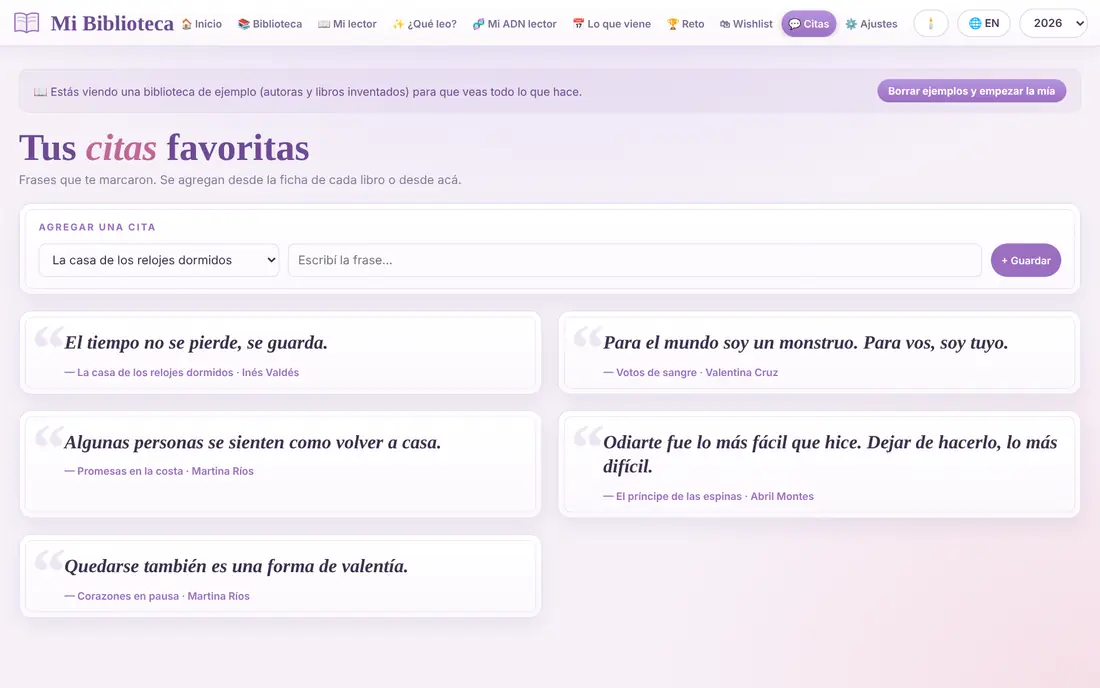
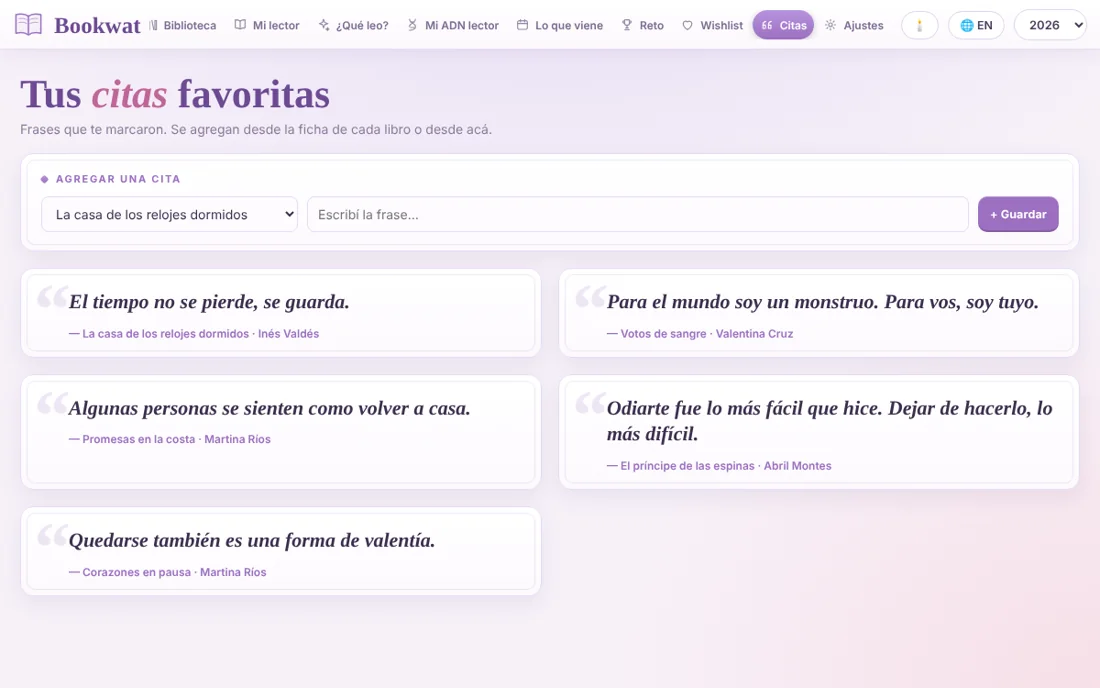
Landing sobria para adultos: portada sin cuento, demo real dentro de la misma pagina, capturas nuevas
Claude-Session: https://claude.ai/code/session_01Ls1qy53izVxpzdbeK1F168

diff --git a/index.html b/index.html
@@ -3,8 +3,8 @@
 <head>
 <meta charset="utf-8">
 <meta name="viewport" content="width=device-width,initial-scale=1,viewport-fit=cover">
-<title>Bookwat · Reading Journal — tu mundo lector encantado</title>
-<meta name="description" content="Bookwat: tu biblioteca encantada, tu lector de EPUB y PDF, tu ADN lector y tu próxima lectura ideal. Probala 1 mes gratis.">
+<title>Bookwat · Reading Journal — tu diario de lectura</title>
+<meta name="description" content="Bookwat: organizá tu biblioteca, leé tus EPUB y PDF con subrayados, conocé tu perfil de lectora y descubrí qué leer después. Probala 1 mes gratis.">
 <meta name="theme-color" content="#1d1030">
 <link rel="preconnect" href="https://fonts.googleapis.com"><link rel="preconnect" href="https://fonts.gstatic.com" crossorigin>
 <link href="https://fonts.googleapis.com/css2?family=Cormorant+Garamond:ital,wght@0,500;0,600;0,700;1,500;1,600&family=Inter:wght@400;500;600;700&display=swap" rel="stylesheet">
@@ -281,6 +281,31 @@ footer nav{display:flex;gap:18px;justify-content:center;flex-wrap:wrap;margin-bo
 #lb img{max-width:100%;max-height:100%;border-radius:10px;box-shadow:0 30px 80px rgba(0,0,0,.6)}
 
 @media(prefers-reduced-motion:reduce){*{animation:none!important;transition:none!important}.reveal{opacity:1;transform:none}.hero{height:auto}.stage{position:relative;height:auto;padding-top:110px}.cover{display:none}}
+
+/* ===== v2: tono sobrio ===== */
+.hero2{position:relative;padding:130px clamp(18px,5vw,60px) 40px;text-align:center}
+.h2in{max-width:820px;margin:0 auto}
+.hero2 .kicker{letter-spacing:.26em;margin-bottom:18px}
+.hero2 .htitle{font-size:clamp(38px,6vw,76px);line-height:1.02}
+.hero2 .hsub{max-width:640px;margin:22px auto 0;font:400 clamp(16px,1.7vw,19px)/1.6 var(--sans);color:var(--lilac2);font-style:normal}
+.hcta{display:flex;gap:14px;justify-content:center;flex-wrap:wrap;margin-top:30px}
+.hnote{margin-top:18px;font:500 12.5px var(--sans);color:rgba(231,214,250,.65);letter-spacing:.02em}
+.h2dev{margin-top:54px}
+.demowrap{display:flex;justify-content:center;margin-top:26px}
+.demoframe{background:#0d0618;box-shadow:0 30px 80px rgba(0,0,0,.55),0 0 0 1px rgba(201,167,236,.25);transition:width .4s,height .4s,border-radius .4s;overflow:hidden;position:relative;max-width:100%}
+.demoframe iframe{width:100%;height:100%;border:0;display:block;background:#f5eefb}
+.demoframe[data-d=m]{width:392px;height:800px;border-radius:40px;border:9px solid #0d0618;box-shadow:0 30px 80px rgba(0,0,0,.55),0 0 0 2px rgba(201,167,236,.35)}
+.demoframe[data-d=d]{width:min(100%,1180px);height:min(720px,82vh);border-radius:14px}
+@media(max-width:520px){.demoframe[data-d=m]{width:100%;height:78vh;border-radius:26px;border-width:6px}}
+.hcta .ghost{margin:0;padding:17px 30px;border:1px solid rgba(201,167,236,.5);border-radius:99px;text-decoration:none;font-size:16px;color:var(--lilac2)}
+.hcta .ghost:hover{background:rgba(201,167,236,.12)}
+.hero2 .h2dev{max-width:980px;margin-left:auto;margin-right:auto}
+@media(max-width:600px){.hero2{padding-top:92px}.hero2 .htitle{font-size:34px}.hero2 .hsub{font-size:15.5px;margin-top:16px}.hcta{flex-direction:column;align-items:stretch;gap:10px;margin-top:22px}.hcta .bigcta,.hcta .ghost{justify-content:center;text-align:center;padding:15px 20px}.hnote{font-size:11.5px}.h2dev{margin-top:34px}.h2dev .laptop{display:none}.h2dev{justify-content:center}}
+.fin .finh{font:600 clamp(30px,4.4vw,48px)/1.1 var(--serif);margin-bottom:12px}
+.mcard .ic,.points .ic{font-size:0}
+.mcard .ic::before,.points .ic::before{content:"";display:block;width:9px;height:9px;transform:rotate(45deg);background:linear-gradient(135deg,var(--gold),var(--rose));border-radius:2px;margin:9px}
+.badges span::before{content:"";display:inline-block;width:6px;height:6px;transform:rotate(45deg);background:var(--gold);margin-right:9px;vertical-align:middle;border-radius:1px}
+.shelf .tome .shot{margin-top:0}
 </style>
 </head>
 <body>
@@ -294,8 +319,8 @@ footer nav{display:flex;gap:18px;justify-content:center;flex-wrap:wrap;margin-bo
  <a class="cta-s" data-sub href="#precio"><span lang="es">Probala gratis</span><span lang="en">Try it free</span></a>
 </header>
 
-<div id="ribbon"><div class="band" id="band"></div><div class="tail"></div></div>
 <nav id="chap">
+ <a href="#demo"><span lang="es">Demo</span><span lang="en">Demo</span><i></i></a>
  <a href="#c1"><span lang="es">La biblioteca</span><span lang="en">The library</span><i></i></a>
  <a href="#c2"><span lang="es">Tu lector</span><span lang="en">Your reader</span><i></i></a>
  <a href="#c3"><span lang="es">¿Qué leo?</span><span lang="en">What to read?</span><i></i></a>
@@ -307,62 +332,59 @@ footer nav{display:flex;gap:18px;justify-content:center;flex-wrap:wrap;margin-bo
 
 <main id="top">
 <!-- ============ PORTADA ============ -->
-<section class="hero" id="hero">
- <div class="stage">
-  <div class="htext" id="htext">
-   <div class="kicker"><span lang="es">Érase una vez una lectora…</span><span lang="en">Once upon a time, a reader…</span></div>
-   <h1 class="htitle"><span lang="es">Tu biblioteca,<br><em>encantada</em></span><span lang="en">Your library,<br><em>enchanted</em></span></h1>
-   <p class="hsub"><span lang="es">Un rincón mágico para guardar cada libro que amaste, leer tus EPUB y PDF, y descubrir cuál será tu próxima historia.</span><span lang="en">A magical corner to keep every book you've loved, read your EPUBs and PDFs, and discover your next story.</span></p>
-  </div>
-  <div class="book" id="book">
-   <div class="pages">
-    <div class="pg l"></div>
-    <div class="pg r"><div class="cap"><span lang="es">Capítulo uno · Tu biblioteca</span><span lang="en">Chapter one · Your library</span></div><div class="plate"><img src="img/landing/lib-plate.webp" alt="Biblioteca Lila de Bookwat"></div><div class="folio">1</div></div>
-   </div>
-   <i class="bmark"></i>
-   <div class="leaf" id="lf1"><div></div><div class="b"></div></div>
-   <div class="leaf" id="lf2"><div></div><div class="b"><div class="endp"><div class="ed"><span lang="es">Edición de lectora</span><span lang="en">Reader's edition</span></div><div class="rule"></div><div class="ttl">Bookwat</div><div class="by"><span lang="es">La biblioteca de tus historias</span><span lang="en">The library of your stories</span></div><div class="rule"></div><div class="ed">MMXXVI</div></div><div class="folio">i</div></div></div>
-   <div class="cover" id="cover">
-    <div class="cfront"><div class="frm"></div>
-     <svg class="emb" viewBox="0 0 64 64" fill="none"><path d="M8 16c8-3 16-3 24 2v34c-8-5-16-5-24-2z" fill="#ebcb83"/><path d="M56 16c-8-3-16-3-24 2v34c8-5 16-5 24-2z" fill="#d4ad5c"/><path d="M32 18v34" stroke="#7a5a20" stroke-width="1.6"/><path d="M32 6l2 5 5 .5-4 3.4 1.4 5-4.4-2.8-4.4 2.8 1.4-5-4-3.4 5-.5z" fill="#fff1cc"/></svg>
-     <h2>Bookwat</h2><p>Reading Journal</p>
-     <div class="hint"><span lang="es">deslizá para abrir ↓</span><span lang="en">scroll to open ↓</span></div></div>
-    <div class="cback"><div class="paste"><div class="exlibris"><b>EX LIBRIS</b><span lang="es">Este libro pertenece a…<br><em>vos, y a todas tus historias</em></span><span lang="en">This book belongs to…<br><em>you, and all your stories</em></span></div></div></div>
-   </div>
-  </div>
-  <div class="scrollcue" id="cue"><span lang="es">✦ Seguí bajando: cada capítulo es una sorpresa ✦</span><span lang="en">✦ Keep scrolling: every chapter is a surprise ✦</span></div>
+<section class="hero2" id="hero">
+ <div class="h2in">
+  <div class="kicker"><span lang="es">Diario de lectura para lectoras</span><span lang="en">Reading journal for avid readers</span></div>
+  <h1 class="htitle"><span lang="es">Toda tu vida lectora,<br><em>en un solo lugar</em></span><span lang="en">Your whole reading life,<br><em>in one place</em></span></h1>
+  <p class="hsub"><span lang="es">Organizá tu biblioteca, leé tus EPUB y PDF en un lector propio con subrayados, y descubrí qué leer después según tu estado de ánimo y tus gustos.</span><span lang="en">Organize your library, read your EPUBs and PDFs in a reader with highlights, and find what to read next based on your mood and taste.</span></p>
+  <div class="hcta"><a class="bigcta" data-sub href="#precio"><span lang="es">Empezar 1 mes gratis</span><span lang="en">Start 1 month free</span></a><a class="ghost" href="#demo"><span lang="es">Probar la demo</span><span lang="en">Try the demo</span></a></div>
+  <div class="hnote"><span lang="es">Sin instalar nada · Celular, tablet y computadora · Español e inglés</span><span lang="en">Nothing to install · Phone, tablet and desktop · Spanish and English</span></div>
+ </div>
+ <div class="devices h2dev">
+  <div class="laptop"><div class="frame"><img src="img/landing/home.webp" alt="Inicio de Bookwat"></div></div>
+  <div class="phone"><div class="frame"><img src="img/landing/ph-lib.webp" alt="Biblioteca en el celular"></div></div>
  </div>
 </section>
 
-<!-- ============ PRÓLOGO ============ -->
+<!-- ============ DEMO ============ -->
+<section class="chapter" id="demo">
+ <div class="chead reveal"><div class="num">Demo</div>
+  <h2 class="t"><span lang="es">Probala <em>acá mismo</em></span><span lang="en">Try it <em>right here</em></span></h2>
+  <p class="lead"><span lang="es">Es la app real con libros de ejemplo. Abrí la biblioteca, el lector, el test de qué leer y el resto de las secciones. Nada se guarda fuera de tu navegador.</span><span lang="en">This is the real app with sample books. Open the library, the reader, the what-to-read test and every other section. Nothing is stored outside your browser.</span></p></div>
+ <div class="tabs reveal"><div class="g" id="tDemo"><button class="on" data-d="m"><span lang="es">Celular</span><span lang="en">Phone</span></button><button data-d="d"><span lang="es">Computadora</span><span lang="en">Desktop</span></button></div></div>
+ <div class="demowrap reveal"><div class="demoframe" id="demoframe" data-d="m"><iframe id="demoif" title="Bookwat demo" loading="lazy" allow="fullscreen"></iframe></div></div>
+ <p class="caption reveal"><span lang="es">Los libros y autoras de la demo son inventados. Podés borrar todo y empezar de cero para ver cómo se siente tu propia biblioteca.</span><span lang="en">The books and authors in the demo are made up. You can delete everything and start from scratch to see how your own library feels.</span></p>
+ <div style="text-align:center;margin-top:22px"><a class="bigcta" data-sub href="#precio"><span lang="es">Empezar 1 mes gratis</span><span lang="en">Start 1 month free</span></a></div>
+</section>
+
+<!-- ============ PRESENTACIÓN ============ -->
 <section class="chapter" style="padding-top:40px">
- <div class="orn-div reveal">✦ ❦ ✦</div>
- <p class="lead cap reveal" style="margin-top:28px"><span lang="es">Las lectoras no guardamos libros: guardamos mundos. El enemies to lovers que nos hizo trasnochar, la saga que esperamos un año entero, la frase que subrayamos tres veces. Bookwat nació para que todo eso viva en un solo lugar, tan lindo como las historias que contiene. No es una planilla ni una lista: es tu biblioteca soñada, con velas, pétalos y luz de luna.</span><span lang="en">Readers don't just keep books: we keep worlds. The enemies-to-lovers that kept us up all night, the series we waited a whole year for, the line we underlined three times. Bookwat was made so all of that can live in one place, as beautiful as the stories inside it. It's not a spreadsheet or a list: it's your dream library, with candles, petals and moonlight.</span></p>
+ <p class="lead cap reveal" style="margin-top:28px"><span lang="es">Llevás el registro de tus lecturas en notas, planillas y capturas sueltas. Bookwat lo reúne todo: qué leíste, qué estás leyendo, qué sigue, tus puntajes, tus citas y tus metas del año, con un lector de EPUB y PDF incluido.</span><span lang="en">You keep track of your reading in notes, spreadsheets and loose screenshots. Bookwat brings it together: what you've read, what you're reading, what's next, your ratings, quotes and yearly goals, with an EPUB and PDF reader included.</span></p>
 </section>
 
 <!-- ============ I · LA BIBLIOTECA ============ -->
 <section class="chapter" id="c1">
- <div class="chead reveal"><div class="num">Capítulo I</div>
-  <h2 class="t"><span lang="es">Una biblioteca que <em>respira</em></span><span lang="en">A library that <em>breathes</em></span></h2>
-  <p class="lead"><span lang="es">Tus libros se acomodan solos en los estantes de un palacio de cuento. Las velas titilan, la chimenea crepita y caen pétalos mientras elegís qué leer.</span><span lang="en">Your books arrange themselves on the shelves of a fairytale palace. Candles flicker, the fireplace crackles and petals fall while you choose what to read.</span></p></div>
+ <div class="chead reveal"><div class="num">01</div>
+  <h2 class="t"><span lang="es">Tu biblioteca, <em>ordenada</em></span><span lang="en">Your library, <em>organized</em></span></h2>
+  <p class="lead"><span lang="es">Tus libros se acomodan solos en estantes ilustrados, en dos estilos a elegir. Verlos reunidos hace más fácil decidir qué leer.</span><span lang="en">Your books arrange themselves on illustrated shelves, in two styles to choose from. Seeing them together makes it easier to decide what to read.</span></p></div>
  <div class="tabs reveal">
-  <div class="g" id="tTheme"><button class="on" data-v="lila">💜 Lila</button><button data-v="clas"><span lang="es">🕯 Clásica</span><span lang="en">🕯 Classic</span></button></div>
+  <div class="g" id="tTheme"><button class="on" data-v="lila">Lila</button><button data-v="clas"><span lang="es">Clásica</span><span lang="en">Classic</span></button></div>
   <div class="g" id="tView"><button class="on" data-v="cov"><span lang="es">Portadas</span><span lang="en">Covers</span></button><button data-v="sp"><span lang="es">Lomos</span><span lang="en">Spines</span></button></div>
  </div>
  <div class="frame libbox reveal" data-zoom><img loading="lazy" id="libimg" alt="Biblioteca"></div>
- <p class="caption reveal"><span lang="es">Probá los botones: dos bibliotecas, dos formas de mirar tus libros.</span><span lang="en">Try the buttons: two libraries, two ways to see your books.</span></p>
+ <p class="caption reveal"><span lang="es">Probá los botones: dos estilos de biblioteca, dos formas de ver tus libros.</span><span lang="en">Try the buttons: two library styles, two ways to see your books.</span></p>
  <div class="mini3">
-  <div class="mcard reveal"><div class="ic">🔤</div><b lang="es">Ordenada como te gusta</b><b lang="en">Sorted your way</b><p lang="es">Por título, por apellido de la autora, por saga o por las más spicy. Saltá a cualquier letra en un toque.</p><p lang="en">By title, author's last name, series, or spiciest. Jump to any letter with one tap.</p></div>
-  <div class="mcard reveal d1"><div class="ic">🌶</div><b lang="es">Filtros de lectora</b><b lang="en">Reader filters</b><p lang="es">Tropos, nivel de spicy, leyendo, por leer, favoritos, abandonados… encontrás cualquier libro al instante.</p><p lang="en">Tropes, spice level, reading, TBR, favorites, DNF… find any book instantly.</p></div>
-  <div class="mcard reveal d2"><div class="ic">📇</div><b lang="es">Una ficha para cada libro</b><b lang="en">A card for every book</b><p lang="es">Portada, saga, páginas, fechas, puntaje, tu book boyfriend, citas y notas: todo lo que ese libro significó para vos.</p><p lang="en">Cover, series, pages, dates, rating, your book boyfriend, quotes and notes: everything that book meant to you.</p></div>
+  <div class="mcard reveal"><div class="ic"></div><b lang="es">Ordenada como te gusta</b><b lang="en">Sorted your way</b><p lang="es">Por título, por apellido de la autora, por saga o por las más spicy. Saltá a cualquier letra en un toque.</p><p lang="en">By title, author's last name, series, or spiciest. Jump to any letter with one tap.</p></div>
+  <div class="mcard reveal d1"><div class="ic"></div><b lang="es">Filtros de lectora</b><b lang="en">Reader filters</b><p lang="es">Tropos, nivel de spicy, leyendo, por leer, favoritos, abandonados… encontrás cualquier libro al instante.</p><p lang="en">Tropes, spice level, reading, TBR, favorites, DNF… find any book instantly.</p></div>
+  <div class="mcard reveal d2"><div class="ic"></div><b lang="es">Una ficha para cada libro</b><b lang="en">A card for every book</b><p lang="es">Portada, saga, páginas, fechas, puntaje, tu book boyfriend, citas y notas: todo lo que ese libro significó para vos.</p><p lang="en">Cover, series, pages, dates, rating, your book boyfriend, quotes and notes: everything that book meant to you.</p></div>
  </div>
 </section>
 
 <!-- ============ II · EL LECTOR ============ -->
 <section class="chapter" id="c2">
- <div class="chead reveal"><div class="num">Capítulo II</div>
-  <h2 class="t"><span lang="es">Leé adentro de <em>tu mundo</em></span><span lang="en">Read inside <em>your world</em></span></h2>
-  <p class="lead"><span lang="es">Subí tus EPUB y PDF y leelos en un lector hecho a mano, que se viste con los colores de tu biblioteca. Nada de pantallas frías.</span><span lang="en">Upload your EPUBs and PDFs and read them in a handcrafted reader dressed in your library's colors. No cold screens.</span></p></div>
+ <div class="chead reveal"><div class="num">02</div>
+  <h2 class="t"><span lang="es">Un lector <em>hecho para leer</em></span><span lang="en">A reader <em>made for reading</em></span></h2>
+  <p class="lead"><span lang="es">Subí tus EPUB y PDF y leelos en un lector con páginas, subrayados, notas y modo noche, que respeta los colores de tu biblioteca.</span><span lang="en">Upload your EPUBs and PDFs and read them in a reader with pages, highlights, notes and night mode, matching your library's colors.</span></p></div>
  <div class="two">
   <div class="media readerduo reveal">
    <div class="laptop"><div class="frame" data-zoom><img loading="lazy" src="img/landing/reader-desk.webp" alt="Lector de EPUB de Bookwat"></div></div>
@@ -370,10 +392,10 @@ footer nav{display:flex;gap:18px;justify-content:center;flex-wrap:wrap;margin-bo
   </div>
   <div class="reveal d1">
    <ul class="points">
-    <li><div class="ic">📖</div><div><b lang="es">Pasá la hoja o deslizá hacia abajo</b><b lang="en">Turn the page or scroll down</b><span lang="es">Como un libro de verdad, con doble página en la compu, o leyendo de corrido en el celular.</span><span lang="en">Like a real book, with a two-page spread on desktop, or as one continuous scroll on your phone.</span></div></li>
-    <li><div class="ic">✦</div><div><b lang="es">Subrayá y se guarda sola</b><b lang="en">Highlight and it saves itself</b><span lang="es">Cada frase que marcás con color aparece en tus Citas favoritas, con tu nota.</span><span lang="en">Every line you highlight lands in your favorite Quotes, with your note.</span></div></li>
-    <li><div class="ic">⏱</div><div><b lang="es">Tu tiempo de lectura, solito</b><b lang="en">Your reading time, tracked</b><span lang="es">Cuánto leíste hoy, esta semana y en cada libro. Y cuando lo terminás, lo festejamos.</span><span lang="en">How much you read today, this week and per book. And when you finish it, we celebrate.</span></div></li>
-    <li><div class="ic">🌙</div><div><b lang="es">Papel, letra y noche</b><b lang="en">Paper, type and night</b><span lang="es">Papel del tema, sepia, blanco o noche; tamaño, tipografía e interlineado a tu gusto.</span><span lang="en">Theme, sepia, white or night paper; size, typeface and line spacing just how you like.</span></div></li>
+    <li><div class="ic"></div><div><b lang="es">Pasá la hoja o deslizá hacia abajo</b><b lang="en">Turn the page or scroll down</b><span lang="es">Como un libro de verdad, con doble página en la compu, o leyendo de corrido en el celular.</span><span lang="en">Like a real book, with a two-page spread on desktop, or as one continuous scroll on your phone.</span></div></li>
+    <li><div class="ic"></div><div><b lang="es">Subrayá y se guarda sola</b><b lang="en">Highlight and it saves itself</b><span lang="es">Cada frase que marcás con color aparece en tus Citas favoritas, con tu nota.</span><span lang="en">Every line you highlight lands in your favorite Quotes, with your note.</span></div></li>
+    <li><div class="ic"></div><div><b lang="es">Tu tiempo de lectura, solito</b><b lang="en">Your reading time, tracked</b><span lang="es">Cuánto leíste hoy, esta semana y en cada libro. Y cuando lo terminás, lo festejamos.</span><span lang="en">How much you read today, this week and per book. And when you finish it, we celebrate.</span></div></li>
+    <li><div class="ic"></div><div><b lang="es">Papel, letra y noche</b><b lang="en">Paper, type and night</b><span lang="es">Papel del tema, sepia, blanco o noche; tamaño, tipografía e interlineado a tu gusto.</span><span lang="en">Theme, sepia, white or night paper; size, typeface and line spacing just how you like.</span></div></li>
    </ul>
   </div>
  </div>
@@ -389,14 +411,14 @@ footer nav{display:flex;gap:18px;justify-content:center;flex-wrap:wrap;margin-bo
 
 <!-- ============ III · ¿QUÉ LEO? ============ -->
 <section class="chapter" id="c3">
- <div class="chead reveal"><div class="num">Capítulo III</div>
+ <div class="chead reveal"><div class="num">03</div>
   <h2 class="t"><span lang="es">¿Qué leo <em>hoy</em>?</span><span lang="en">What do I read <em>today</em>?</span></h2>
   <p class="lead"><span lang="es">Contestás cómo te sentís, cuánto romance querés, qué tan spicy y qué tropos te tientan… y la app elige entre los libros de tu propia pila.</span><span lang="en">Tell it how you feel, how much romance you want, how spicy, and which tropes tempt you… and the app picks from your own TBR.</span></p></div>
  <div class="two rev">
   <div class="media reveal"><div class="frame" data-zoom><img loading="lazy" src="img/landing/quiz.webp" alt="Test ¿Qué leo?"></div></div>
   <div class="quiz reveal d1">
    <h3><span lang="es">¿Qué te pide <em>el corazón</em>?</span><span lang="en">What does your <em>heart</em> want?</span></h3>
-   <p class="q"><span lang="es">Probalo acá mismo 👇</span><span lang="en">Try it right here 👇</span></p>
+   <p class="q"><span lang="es">Elegí cómo te sentís hoy</span><span lang="en">Pick how you feel today</span></p>
    <div class="moods" id="moods"></div>
    <div class="qres" id="qres"><div class="bk" id="qbk">📖</div><div><small lang="es">Tu próxima lectura podría ser</small><small lang="en">Your next read could be</small><b id="qt"></b><p id="qp"></p></div></div>
   </div>
@@ -405,7 +427,7 @@ footer nav{display:flex;gap:18px;justify-content:center;flex-wrap:wrap;margin-bo
 
 <!-- ============ IV · ADN ============ -->
 <section class="chapter" id="c4">
- <div class="chead reveal"><div class="num">Capítulo IV</div>
+ <div class="chead reveal"><div class="num">04</div>
   <h2 class="t"><span lang="es">Tu <em>ADN</em> lector</span><span lang="en">Your reader <em>DNA</em></span></h2>
   <p class="lead"><span lang="es">Con cada libro que terminás, la app descubre quién sos como lectora: tus tropos favoritos, tu termómetro de spicy y tus red flags.</span><span lang="en">With every book you finish, the app discovers who you are as a reader: your favorite tropes, your spice thermometer and your red flags.</span></p></div>
  <div class="two">
@@ -416,27 +438,27 @@ footer nav{display:flex;gap:18px;justify-content:center;flex-wrap:wrap;margin-bo
     <polygon class="shape" points="0,-108 86,-50 60,35 0,62 -95,55 -52,-30" fill="#f2a7c9" stroke="#f2a7c9" stroke-width="3"/>
     <g font-family="Cormorant Garamond,serif" font-size="17" font-weight="600" fill="#e7d6fa" text-anchor="middle"><text x="0" y="-130">Romance</text><text x="130" y="-62">Spicy</text><text x="132" y="74">Dark</text><text x="0" y="146" lang="es">Emoción</text><text x="0" y="146" lang="en">Emotion</text><text x="-132" y="74">Comfort</text><text x="-134" y="-62" lang="es">Fantasía</text><text x="-134" y="-62" lang="en">Fantasy</text></g>
    </svg>
-   <div class="dnatag">⚔ <span lang="es">Adicta al Enemies to Lovers</span><span lang="en">Enemies-to-Lovers addict</span></div>
+   <div class="dnatag"><span lang="es">Adicta al Enemies to Lovers</span><span lang="en">Enemies-to-Lovers addict</span></div>
   </div>
  </div>
 </section>
 
 <!-- ============ V · TU AÑO LECTOR ============ -->
 <section class="chapter" id="c5">
- <div class="chead reveal"><div class="num">Capítulo V</div>
+ <div class="chead reveal"><div class="num">05</div>
   <h2 class="t"><span lang="es">Todo tu <em>año lector</em></span><span lang="en">Your whole <em>reading year</em></span></h2>
   <p class="lead"><span lang="es">Cuatro tomos más en tu estante. Tocá cualquiera para verlo de cerca.</span><span lang="en">Four more volumes on your shelf. Tap any of them for a closer look.</span></p></div>
  <div class="shelf">
-  <div class="tome reveal" style="--c1:#8e5cb8;--c2:#5a3b80" data-zoom><span class="e">🏆</span><div class="shot"><img loading="lazy" src="img/landing/reto.webp" alt="Reto"></div><h4 lang="es">Reto anual</h4><h4 lang="en">Yearly challenge</h4><p lang="es">Ponete una meta de libros y mirá cómo se llena mes a mes.</p><p lang="en">Set a book goal and watch it fill up month by month.</p></div>
-  <div class="tome reveal d1" style="--c1:#e57fab;--c2:#a94f7c" data-zoom><span class="e">🛍</span><div class="shot"><img loading="lazy" src="img/landing/wish.webp" alt="Wishlist"></div><h4>Wishlist</h4><p lang="es">Los libros que querés, con prioridad y precio, para no olvidar ninguno.</p><p lang="en">The books you want, with priority and price, so you never forget one.</p></div>
-  <div class="tome reveal d2" style="--c1:#c9a24f;--c2:#8a6526" data-zoom><span class="e">📅</span><div class="shot"><img loading="lazy" src="img/landing/soon.webp" alt="Lo que viene"></div><h4 lang="es">Lo que viene</h4><h4 lang="en">Coming soon</h4><p lang="es">Los próximos lanzamientos de tus autoras, con cuenta regresiva y aviso.</p><p lang="en">Your authors' upcoming releases, with a countdown and reminders.</p></div>
-  <div class="tome reveal d3" style="--c1:#4f7fa8;--c2:#2d4f73" data-zoom><span class="e">💬</span><div class="shot"><img loading="lazy" src="img/landing/citas.webp" alt="Citas"></div><h4 lang="es">Citas</h4><h4 lang="en">Quotes</h4><p lang="es">Tu cuaderno de frases favoritas, las que subrayaste y las que anotaste.</p><p lang="en">Your notebook of favorite lines, highlighted or written down.</p></div>
+  <div class="tome reveal" style="--c1:#8e5cb8;--c2:#5a3b80" data-zoom><div class="shot"><img loading="lazy" src="img/landing/reto.webp" alt="Reto"></div><h4 lang="es">Reto anual</h4><h4 lang="en">Yearly challenge</h4><p lang="es">Ponete una meta de libros y mirá cómo se llena mes a mes.</p><p lang="en">Set a book goal and watch it fill up month by month.</p></div>
+  <div class="tome reveal d1" style="--c1:#e57fab;--c2:#a94f7c" data-zoom><div class="shot"><img loading="lazy" src="img/landing/wish.webp" alt="Wishlist"></div><h4>Wishlist</h4><p lang="es">Los libros que querés, con prioridad y precio, para no olvidar ninguno.</p><p lang="en">The books you want, with priority and price, so you never forget one.</p></div>
+  <div class="tome reveal d2" style="--c1:#c9a24f;--c2:#8a6526" data-zoom><div class="shot"><img loading="lazy" src="img/landing/soon.webp" alt="Lo que viene"></div><h4 lang="es">Lo que viene</h4><h4 lang="en">Coming soon</h4><p lang="es">Los próximos lanzamientos de tus autoras, con cuenta regresiva y aviso.</p><p lang="en">Your authors' upcoming releases, with a countdown and reminders.</p></div>
+  <div class="tome reveal d3" style="--c1:#4f7fa8;--c2:#2d4f73" data-zoom><div class="shot"><img loading="lazy" src="img/landing/citas.webp" alt="Citas"></div><h4 lang="es">Citas</h4><h4 lang="en">Quotes</h4><p lang="es">Tu cuaderno de frases favoritas, las que subrayaste y las que anotaste.</p><p lang="en">Your notebook of favorite lines, highlighted or written down.</p></div>
  </div>
 </section>
 
 <!-- ============ VI · SIEMPRE CON VOS ============ -->
 <section class="chapter" id="c6">
- <div class="chead reveal"><div class="num">Capítulo VI</div>
+ <div class="chead reveal"><div class="num">06</div>
   <h2 class="t"><span lang="es">Siempre <em>con vos</em></span><span lang="en">Always <em>with you</em></span></h2>
   <p class="lead"><span lang="es">En la compu, en la tablet o en el celular, en el colectivo o en la cama. Creás tu cuenta y tu biblioteca te sigue a todos lados.</span><span lang="en">On your computer, tablet or phone, on the bus or in bed. Create your account and your library follows you everywhere.</span></p></div>
  <div class="devices reveal">
@@ -444,17 +466,17 @@ footer nav{display:flex;gap:18px;justify-content:center;flex-wrap:wrap;margin-bo
   <div class="phone"><div class="frame" data-zoom><img loading="lazy" src="img/landing/ph-lib.webp" alt="Biblioteca en el celular"></div></div>
  </div>
  <div class="badges reveal">
-  <span>☁ <span lang="es">Sincronizada en tu nube</span><span lang="en">Synced to your cloud</span></span>
-  <span>📱 <span lang="es">Celular, tablet y compu</span><span lang="en">Phone, tablet & desktop</span></span>
-  <span>🌎 Español · English</span>
-  <span>🔒 <span lang="es">Tus datos son tuyos</span><span lang="en">Your data is yours</span></span>
-  <span>✨ <span lang="es">Sin instalar nada</span><span lang="en">Nothing to install</span></span>
+  <span><span lang="es">Sincronizada en tu nube</span><span lang="en">Synced to your cloud</span></span>
+  <span><span lang="es">Celular, tablet y compu</span><span lang="en">Phone, tablet & desktop</span></span>
+  <span>Español · English</span>
+  <span><span lang="es">Tus datos son tuyos</span><span lang="en">Your data is yours</span></span>
+  <span><span lang="es">Sin instalar nada</span><span lang="en">Nothing to install</span></span>
  </div>
 </section>
 
 <!-- ============ PRECIO ============ -->
 <section class="chapter" id="precio">
- <div class="chead reveal"><div class="num"><span lang="es">Tu ficha de socia</span><span lang="en">Your library card</span></div>
+ <div class="chead reveal"><div class="num"><span lang="es">Tu suscripción</span><span lang="en">Your membership</span></div>
   <h2 class="t"><span lang="es">El primer mes <em>es un regalo</em></span><span lang="en">Your first month <em>is a gift</em></span></h2></div>
  <div class="pricewrap reveal">
   <div class="card">
@@ -464,7 +486,7 @@ footer nav{display:flex;gap:18px;justify-content:center;flex-wrap:wrap;margin-bo
    <div class="price"><b id="pv"></b><span><span lang="es">/ mes</span><span lang="en">/ month</span></span></div>
    <div class="free"><span lang="es">Los primeros 30 días no pagás nada</span><span lang="en">The first 30 days are on us</span></div>
    <ul class="inc">
-    <li lang="es">Biblioteca encantada Lila y Clásica</li><li lang="en">Enchanted Lila and Classic libraries</li>
+    <li lang="es">Biblioteca ilustrada, estilo Lila y Clásico</li><li lang="en">Illustrated library, Lila and Classic styles</li>
     <li lang="es">Lector de EPUB y PDF con subrayados</li><li lang="en">EPUB & PDF reader with highlights</li>
     <li lang="es">¿Qué leo?, ADN lector, Reto, Wishlist y Citas</li><li lang="en">What to read?, Reader DNA, Challenge, Wishlist & Quotes</li>
     <li lang="es">Tu cuenta en la nube, en todos tus dispositivos</li><li lang="en">Your cloud account on all your devices</li>
@@ -474,14 +496,14 @@ footer nav{display:flex;gap:18px;justify-content:center;flex-wrap:wrap;margin-bo
     <a class="pp" id="bPP" data-sub href="#" target="_blank" rel="noopener"><span lang="es">Suscribirme con</span><span lang="en">Subscribe with</span> <span><i>Pay</i><i>Pal</i></span></a>
    </div>
    <p class="fine"><span lang="es">El precio es de USD 7,60 por mes. PayPal cobra en dólares; Mercado Pago cobra el equivalente en pesos argentinos. Los montos en pesos son aproximados y dependen del tipo de cambio. Cancelás cuando quieras desde tu cuenta de pago.</span><span lang="en">The price is USD 7.60 per month. PayPal charges in US dollars; Mercado Pago charges the equivalent in Argentine pesos. Peso amounts are approximate and depend on the exchange rate. Cancel anytime from your payment account.</span></p>
-   <a class="demo-link" id="bDemo" href="#" target="_blank" rel="noopener"><span lang="es">o mirá primero la demo ✦</span><span lang="en">or see the demo first ✦</span></a>
+   <a class="demo-link" id="bDemo" href="#demo"><span lang="es">o probá primero la demo</span><span lang="en">or try the demo first</span></a>
   </div>
  </div>
 </section>
 
 <!-- ============ PREGUNTAS ============ -->
 <section class="chapter" id="faq">
- <div class="chead reveal"><div class="num"><span lang="es">Notas al margen</span><span lang="en">Notes in the margin</span></div><h2 class="t"><span lang="es">Preguntas <em>frecuentes</em></span><span lang="en">Frequently asked <em>questions</em></span></h2></div>
+ <div class="chead reveal"><div class="num"><span lang="es">Ayuda</span><span lang="en">Help</span></div><h2 class="t"><span lang="es">Preguntas <em>frecuentes</em></span><span lang="en">Frequently asked <em>questions</em></span></h2></div>
  <div class="faq reveal">
   <details><summary><span lang="es">¿Tengo que instalar algo?</span><span lang="en">Do I need to install anything?</span></summary><p lang="es">No. Bookwat se abre desde el navegador en el celular, la tablet o la compu. Si querés, la agregás a la pantalla de inicio y queda como una app más.</p><p lang="en">No. Bookwat opens in your browser on phone, tablet or computer. If you like, add it to your home screen and it feels like any other app.</p></details>
   <details><summary><span lang="es">¿Qué libros puedo leer en el lector?</span><span lang="en">Which books can I read in the reader?</span></summary><p lang="es">Archivos EPUB y PDF sin protección (DRM). Los libros comprados en Kindle no se pueden abrir porque están protegidos.</p><p lang="en">EPUB and PDF files without DRM protection. Books bought on Kindle can't be opened because they're protected.</p></details>
@@ -494,10 +516,10 @@ footer nav{display:flex;gap:18px;justify-content:center;flex-wrap:wrap;margin-bo
 
 <!-- ============ FIN ============ -->
 <section class="fin">
- <div class="end reveal"><span lang="es">Fin</span><span lang="en">The End</span></div>
- <p class="reveal"><span lang="es">…o mejor dicho, el comienzo de tu biblioteca más linda. Y vivieron leyendo felices para siempre.</span><span lang="en">…or rather, the beginning of your most beautiful library. And they read happily ever after.</span></p>
- <a class="bigcta reveal" data-sub href="#precio">✦ <span lang="es">Empezar mi mes gratis</span><span lang="en">Start my free month</span></a><br>
- <a class="ghost reveal" id="bDemo2" href="#" target="_blank" rel="noopener"><span lang="es">Ver la demo</span><span lang="en">See the demo</span></a>
+ <h2 class="finh reveal"><span lang="es">Probala durante un mes, sin costo</span><span lang="en">Try it for a month, free</span></h2>
+ <p class="reveal"><span lang="es">Si no es para vos, cancelás antes de que termine la prueba y no se te cobra nada.</span><span lang="en">If it's not for you, cancel before the trial ends and you won't be charged.</span></p>
+ <a class="bigcta reveal" data-sub href="#precio"><span lang="es">Empezar mi mes gratis</span><span lang="en">Start my free month</span></a><br>
+ <a class="ghost reveal" href="#demo"><span lang="es">Ver la demo</span><span lang="en">See the demo</span></a>
 </section>
 </main>
 
@@ -516,7 +538,7 @@ const CONFIG={
   mxnPorUSD:18.49,           // pesos mexicanos por 1 dólar
   linkMercadoPago:'https://mpago.la/2Wwd38p',
   linkPayPal:'https://www.paypal.com/webapps/billing/plans/subscribe?plan_id=P-1JH63687MF956341SNMC5LHY',
-  linkDemo:'demo.html',
+  urlDemo:'https://readingjournal.estrategia.site/app.html?demo',
   linkTerminos:'#', linkPrivacidad:'#'
 };
 /* ================================================== */
@@ -530,7 +552,7 @@ function setLang(l){LANG=l;document.documentElement.className=l;document.documen
 $$('.lang button').forEach(b=>b.onclick=()=>setLang(b.dataset.l));
 
 // enlaces
-$('#bMP').href=CONFIG.linkMercadoPago;$('#bPP').href=CONFIG.linkPayPal;$('#bDemo').href=$('#bDemo2').href=CONFIG.linkDemo;$('#lTerms').href=CONFIG.linkTerminos;$('#lPriv').href=CONFIG.linkPrivacidad;$('#yr').textContent=new Date().getFullYear();
+$('#bMP').href=CONFIG.linkMercadoPago;$('#bPP').href=CONFIG.linkPayPal;$('#bDemo').href='#demo';$('#lTerms').href=CONFIG.linkTerminos;$('#lPriv').href=CONFIG.linkPrivacidad;$('#yr').textContent=new Date().getFullYear();
 
 // precio
 const tz=(Intl.DateTimeFormat().resolvedOptions().timeZone||'');
@@ -543,20 +565,12 @@ function price(){
 $$('#cur button').forEach(b=>b.onclick=()=>{CUR=b.dataset.c;price()});
 
 // cabecera, cinta, capítulos, portada
-const lf1=$('#lf1'),lf2=$('#lf2'),hd=$('#hd'),band=$('#band'),cover=$('#cover'),book=$('#book'),ht=$('#htext'),cue=$('#cue'),hero=$('#hero');
+const hd=$('#hd');
 const chs=$$('#chap a').map(a=>[a,document.querySelector(a.getAttribute('href'))]);
 let tick=false;
 function onScroll(){if(tick)return;tick=true;requestAnimationFrame(()=>{tick=false;
-  const y=scrollY,H=document.documentElement.scrollHeight-innerHeight;
-  hd.classList.toggle('on',y>30);band.style.height=Math.max(0,Math.min(1,y/H))*(innerHeight-22)+'px';
-  if(!RM){const p=Math.max(0,Math.min(1,y/(hero.offsetHeight-innerHeight)));
-    const open=easeIO(Math.min(1,p/.7)),sh=(1-open);
-    cover.style.transform=`rotateY(${-180*open}deg)`;
-    lf1.style.transform=`rotateY(${-178*easeIO(Math.max(0,Math.min(1,(p-.08)/.66)))}deg)`;
-    lf2.style.transform=`rotateY(${-176*easeIO(Math.max(0,Math.min(1,(p-.16)/.62)))}deg)`;
-    book.classList.toggle('op',open>.5);
-    book.style.transform=`translateX(${-25*sh}%) translateY(${-4*p}vh) rotateX(${10*sh}deg) scale(${1+(innerWidth>700?.1:0)*easeIO(Math.max(0,(p-.7)/.3))})`;
-    ht.style.opacity=1-p*1.6;ht.style.transform=`translateY(${-60*p}px)`;cue.style.opacity=p>.7?(p-.7)/.3:0}
+  const y=scrollY;
+  hd.classList.toggle('on',y>30);
   let cur=null;chs.forEach(([a,s])=>{if(s&&s.getBoundingClientRect().top<innerHeight*.5)cur=a});chs.forEach(([a])=>a.classList.toggle('on',a===cur));
 })}
 const easeIO=t=>t<.5?2*t*t:1-Math.pow(-2*t+2,2)/2;
@@ -599,7 +613,7 @@ lb.onclick=()=>lb.classList.remove('on');addEventListener('keydown',e=>{if(e.key
 // cielo: estrellas, luciérnagas y pétalos
 const cv=$('#fx'),cx=cv.getContext('2d');let W,H,parts=[];
 function size(){const d=Math.min(devicePixelRatio||1,2);W=innerWidth;H=innerHeight;cv.width=W*d;cv.height=H*d;cx.setTransform(d,0,0,d,0,0)}
-function mk(){const n=Math.round(Math.min(90,W/14));parts=[];for(let i=0;i<n;i++){const k=Math.random();parts.push({t:k<.55?'s':k<.8?'f':'p',x:Math.random()*W,y:Math.random()*H,r:Math.random()*1.6+.4,a:Math.random()*6.28,v:Math.random()*.4+.15,s:Math.random()*.02+.005})}}
+function mk(){const n=Math.round(Math.min(90,W/14));parts=[];for(let i=0;i<n;i++){const k=Math.random();parts.push({t:'s',x:Math.random()*W,y:Math.random()*H,r:Math.random()*1.6+.4,a:Math.random()*6.28,v:Math.random()*.4+.15,s:Math.random()*.02+.005})}}
 function draw(){cx.clearRect(0,0,W,H);const sy=scrollY*.05;
   for(const p of parts){p.a+=p.s;
     if(p.t==='s'){const o=.35+.35*Math.sin(p.a*2);cx.fillStyle=`rgba(255,246,230,${o})`;cx.beginPath();cx.arc(p.x,(p.y-sy+H*10)%H,p.r,0,6.28);cx.fill()}
@@ -607,6 +621,14 @@ function draw(){cx.clearRect(0,0,W,H);const sy=scrollY*.05;
     else{p.y+=p.v*1.4;p.x+=Math.sin(p.a)*.8;if(p.y>H+12){p.y=-12;p.x=Math.random()*W}cx.save();cx.translate(p.x,p.y);cx.rotate(p.a*2);cx.fillStyle='rgba(242,167,201,.75)';cx.beginPath();cx.ellipse(0,0,5.5,3.2,0,0,6.28);cx.fill();cx.restore()}}
   requestAnimationFrame(draw)}
 size();mk();if(!RM)draw();addEventListener('resize',()=>{size();mk()});
+
+// demo embebida
+const df=$('#demoframe'),dif=$('#demoif');let dLoaded=false;
+function demoSrc(){const h=location.hostname;return (!h||h==='localhost'||h==='127.0.0.1'||h.indexOf('readingjournal.')===0)?'app.html?demo':CONFIG.urlDemo}
+function loadDemo(){if(dLoaded)return;dLoaded=true;dif.src=demoSrc()}
+new IntersectionObserver((es,o)=>{if(es.some(e=>e.isIntersecting)){loadDemo();o.disconnect()}},{rootMargin:'600px 0px'}).observe(df);
+$$('#tDemo button').forEach(b=>b.onclick=()=>{df.dataset.d=b.dataset.d;$$('#tDemo button').forEach(x=>x.classList.toggle('on',x===b))});
+addEventListener('message',e=>{if(e.data&&e.data.bw==='subscribe'){const t=document.getElementById('precio');if(t)t.scrollIntoView({behavior:'smooth'})}});
 
 setLang(LANG);onScroll();
 })();

diff --git a/app.html b/app.html
@@ -2135,6 +2135,7 @@ window.MB={demo:DEMO,get S(){return S},get covers(){return covers},save,toast,es
   if(!DEMO){SY.init();document.addEventListener('visibilitychange',()=>{if(!document.hidden&&SY.user)SY.pull(false)})}
 })();
 })();
+document.addEventListener('click',e=>{const l=e.target.closest&&e.target.closest('a[href$="#precio"]');if(l&&window.parent!==window){e.preventDefault();try{parent.postMessage({bw:'subscribe'},'*')}catch(x){}}});
 </script>
 </body>
 </html>
